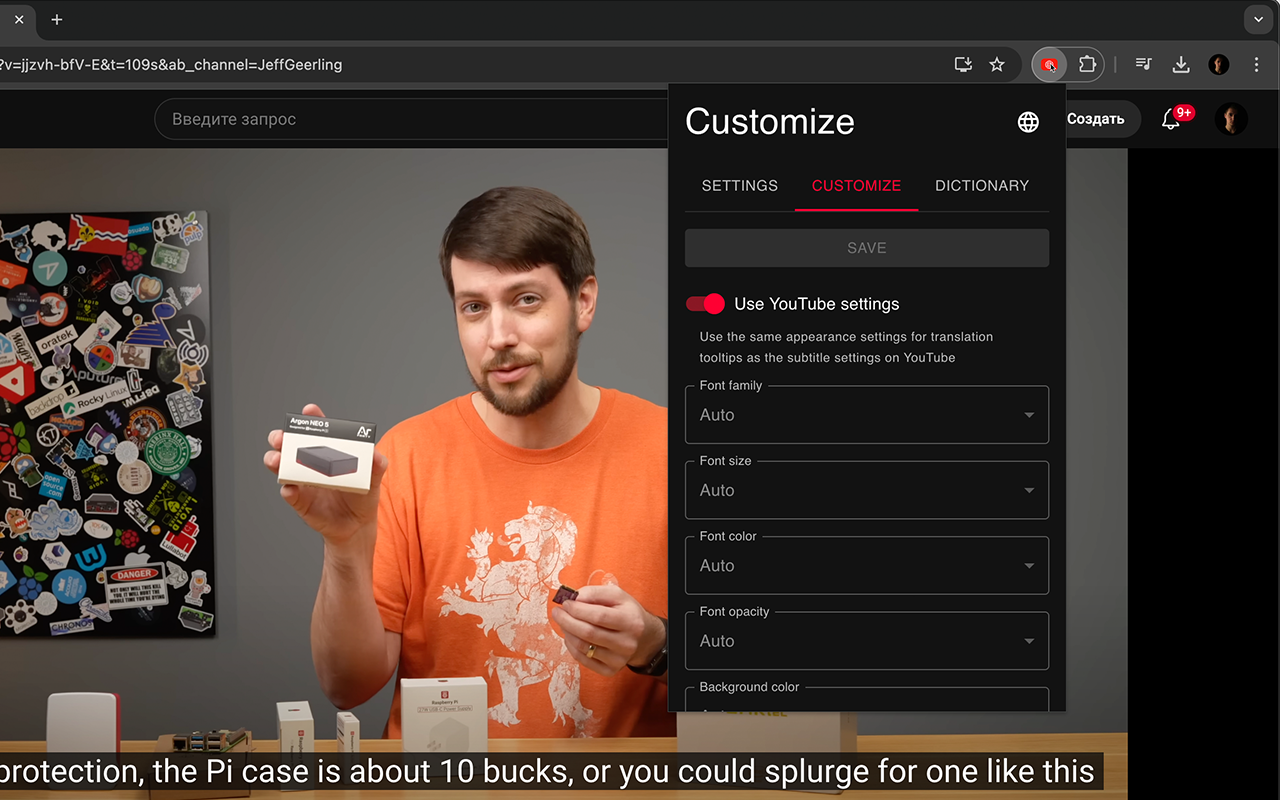
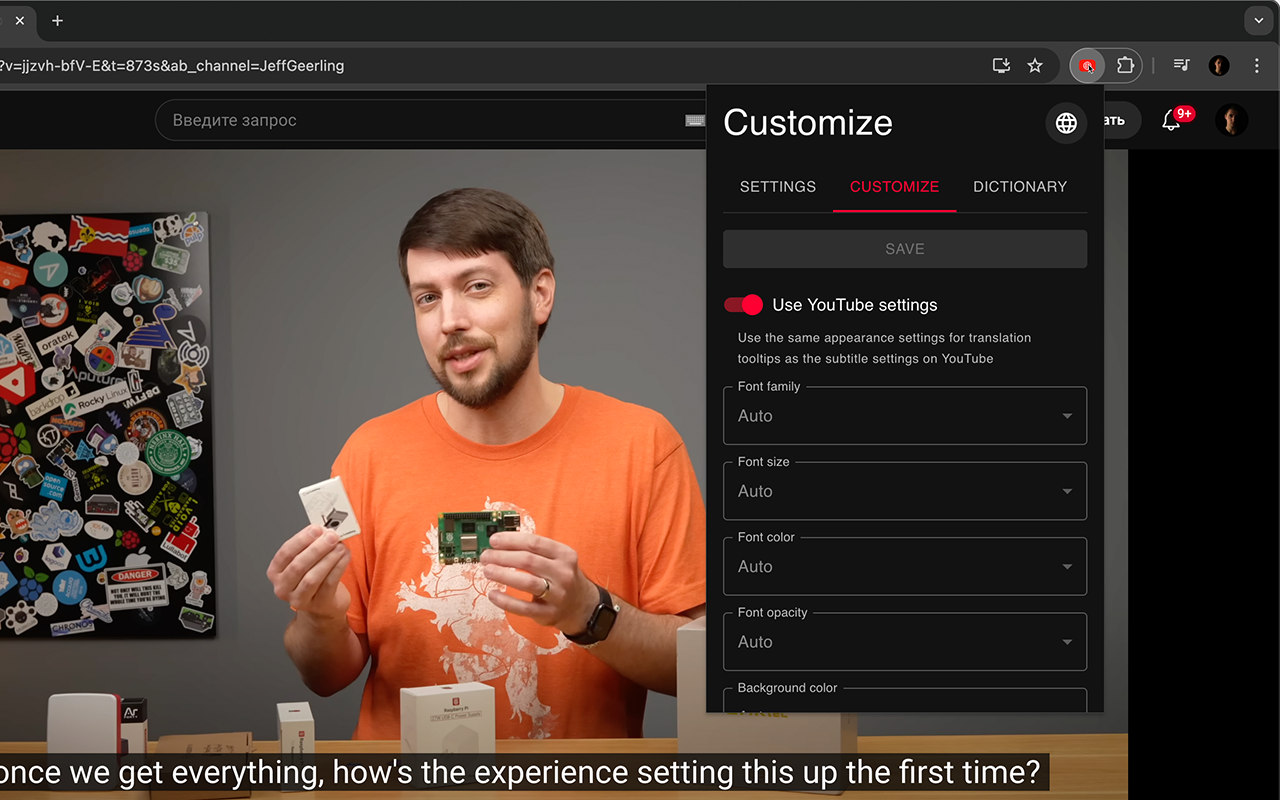
Update screenshots. Add description files. Add save button duplicate. Update skeletons. Fix i18n localization

diff --git a/popup/src/pages/SettingsPage/ui/SettingsForm.tsx b/popup/src/pages/SettingsPage/ui/SettingsForm.tsx
@@ -139,6 +139,16 @@ export const SettingsForm: FC<SettingsFormProps> = (props) => {
   return (
     <Box>
       <Stack spacing={2}>
+        <Button
+          variant="contained"
+          color="primary"
+          onClick={() => handleSubmit()}
+          fullWidth
+          disabled={!dirty || !isValid}
+          title={dirty ? t("actions.save.tooltip") : t("actions.save.disabledTooltip")}
+        >
+          {t("actions.save.text")}
+        </Button>
         <SettingsSelect
           id="targetLanguageCode"
           label={t("fields.targetLanguageCode.label")}
@@ -207,7 +217,6 @@ export const SettingsForm: FC<SettingsFormProps> = (props) => {
         >
           {t("actions.save.text")}
         </Button>
-
       </Stack>
     </Box>
   );

diff --git a/popup/src/app/config/i18n.ts b/popup/src/app/config/i18n.ts
@@ -10,6 +10,7 @@ import "dayjs/locale/ru";
 import dayjs from "dayjs";
 
 const languageDetector = new LanguageDetector();
+const baseUrl = chrome.runtime.getURL("/");
 
 languageDetector.addDetector({
   name: "detectUILanguage",
@@ -29,7 +30,7 @@ i18n
     nonExplicitSupportedLngs: true,
     ns: ["messages", "modals", "settings", "customize", "dictionary", "common"],
     backend: {
-      loadPath: chrome.runtime.getURL("/_locales/{{lng}}/{{ns}}.json"),
+      loadPath: `${baseUrl}_locales/{{lng}}/{{ns}}.json`,
     },
     detection: {
       lookupLocalStorage: "hoverTranslatePopupLanguage",

diff --git a/popup/src/pages/SettingsPage/ui/SettingsFormSkeleton.tsx b/popup/src/pages/SettingsPage/ui/SettingsFormSkeleton.tsx
@@ -6,7 +6,9 @@ export const SettingsFormSkeleton = () => {
   return (
     <Box>
       <Stack spacing={2}>
-        <Skeleton variant="rounded" width="100%" height={56} />
+        <Skeleton variant="rounded" width="100%" height={36.5} />
+        <Skeleton variant="rounded" width="100%" height={50} />
+        <Skeleton variant="rounded" width="100%" height={48} />
         <Skeleton variant="rounded" width="100%" height={56} />
         <Skeleton variant="rounded" width="100%" height={56} />
         <Skeleton variant="rounded" width="100%" height={80.83} />

diff --git a/popup/src/shared/ui/Skeletons/PageSkeleton.tsx b/popup/src/shared/ui/Skeletons/PageSkeleton.tsx
@@ -11,6 +11,7 @@ export const PageSkeleton = () => {
     }}>
       <Box>
         <Stack spacing={2}>
+          <Skeleton variant="rounded" width="100%" height={36.5} />
           <Skeleton variant="rounded" width="100%" height={50} />
           <Skeleton variant="rounded" width="100%" height={48} />
           <Skeleton variant="rounded" width="100%" height={56} />
